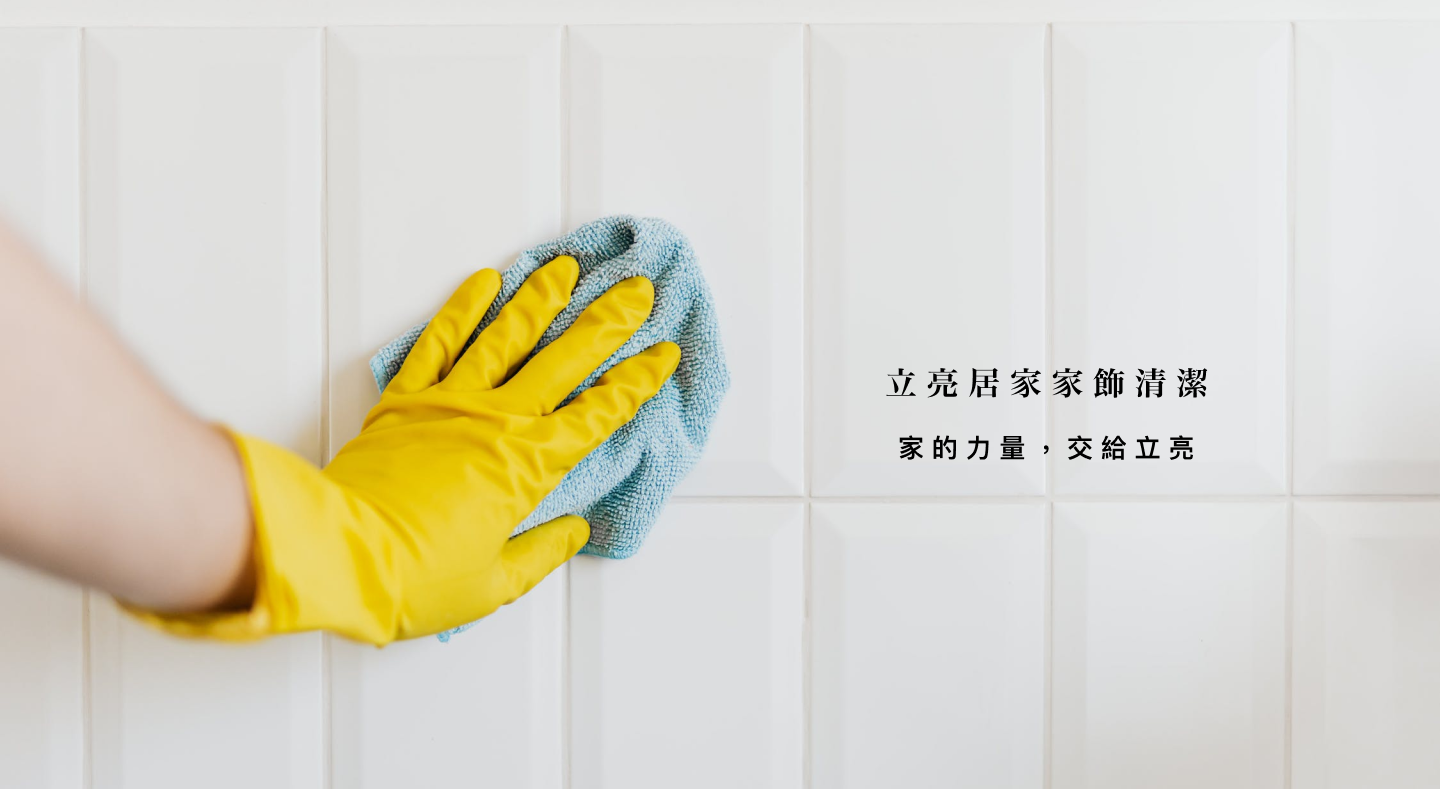
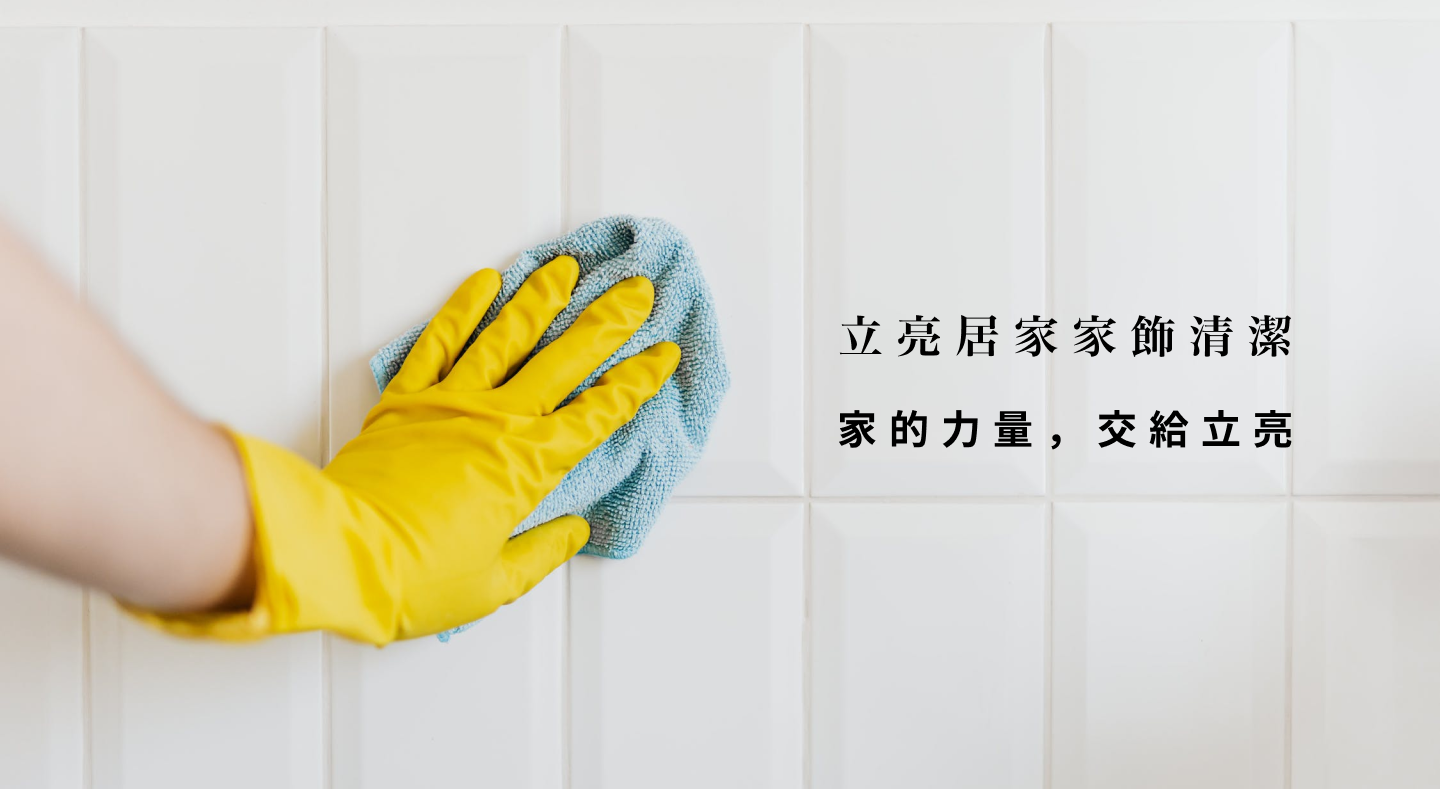
頂標籤加顏色、footer調整文字大小顏色、banner更換圖及新增圖

Changed region(s): [[0.5625, 0.3954, 0.9062, 0.5779]]

diff --git a/src/views/index.vue b/src/views/index.vue
@@ -38,8 +38,9 @@
         連絡電話：(04)23217936<br />
         公司地址：台中市西區台灣大道二段406號12樓之2<br />
         公司信箱：liliangclean@gmail.com<br />
-        客服時間：週一至週五 09:00-12:00,13:00-18:00 (不含例假日)<br />
+        客服時間：週一至週五09:00-12:00,13:30-18:00(不含週六、週日、國定假日)<br />
       </div>
+
       <div class="info__icons">
         <div class="info__icon"><img :src="IconFB" /></div>
         <div class="info__icon">
@@ -49,6 +50,8 @@
       </div>
     </div>
   </div>
+  <div>© 2022 立亮居家家飾清潔 All Rights Reserved.</div>
+
   <div id="go-to-top" href="#swiper" class="go-to-top" @click="goToTop">
     <img :src="IconGoToTop" />
   </div>
@@ -84,6 +87,9 @@ export default {
       },
       {
         url: require('../assets/image/image/image-banner-3.png'),
+      },
+      {
+        url: require('../assets/image/image/image-banner-4.png'),
       },
     ]);
 
@@ -227,7 +233,7 @@ export default {
     align-items: flex-end;
     margin-top: 34px;
     .info__content {
-      color: var(--white);
+      color: var(--black);
       font-size: 18px;
       line-height: 160%;
     }
@@ -301,7 +307,7 @@ export default {
       justify-content: flex-start;
       align-items: center;
       .info__content {
-        font-size: 14px;
+        font-size: 16px;
       }
       .info__icons {
         margin-top: 20px;

diff --git a/src/App.vue b/src/App.vue
@@ -1,6 +1,8 @@
 <template>
   <Navigator />
-  <RouterView id="routerview" />
+  <div class="router-view">
+    <RouterView id="routerview" />
+  </div>
   <Loading v-if="showLoading" />
   <Dialog v-model:show="showDialog" :action="dialogAction">
     {{ dialogMessage }}
@@ -56,5 +58,9 @@ export default {
   -ms-user-select: none; /*IE10*/
   user-select: none;
   touch-action: pan-x pan-y;
+}
+.router-view {
+  margin-top: 47px;
+  background: #efe8e1;
 }
 </style>

diff --git a/src/components/ImageSwiper.vue b/src/components/ImageSwiper.vue
@@ -99,7 +99,7 @@ export default defineComponent({
 .swiper-wrapper {
   overflow: hidden !important;
 }
-.swiper-slide.swiper-slide-active {
+.swiper-slide {
   img {
     width: 100vw !important;
   }
